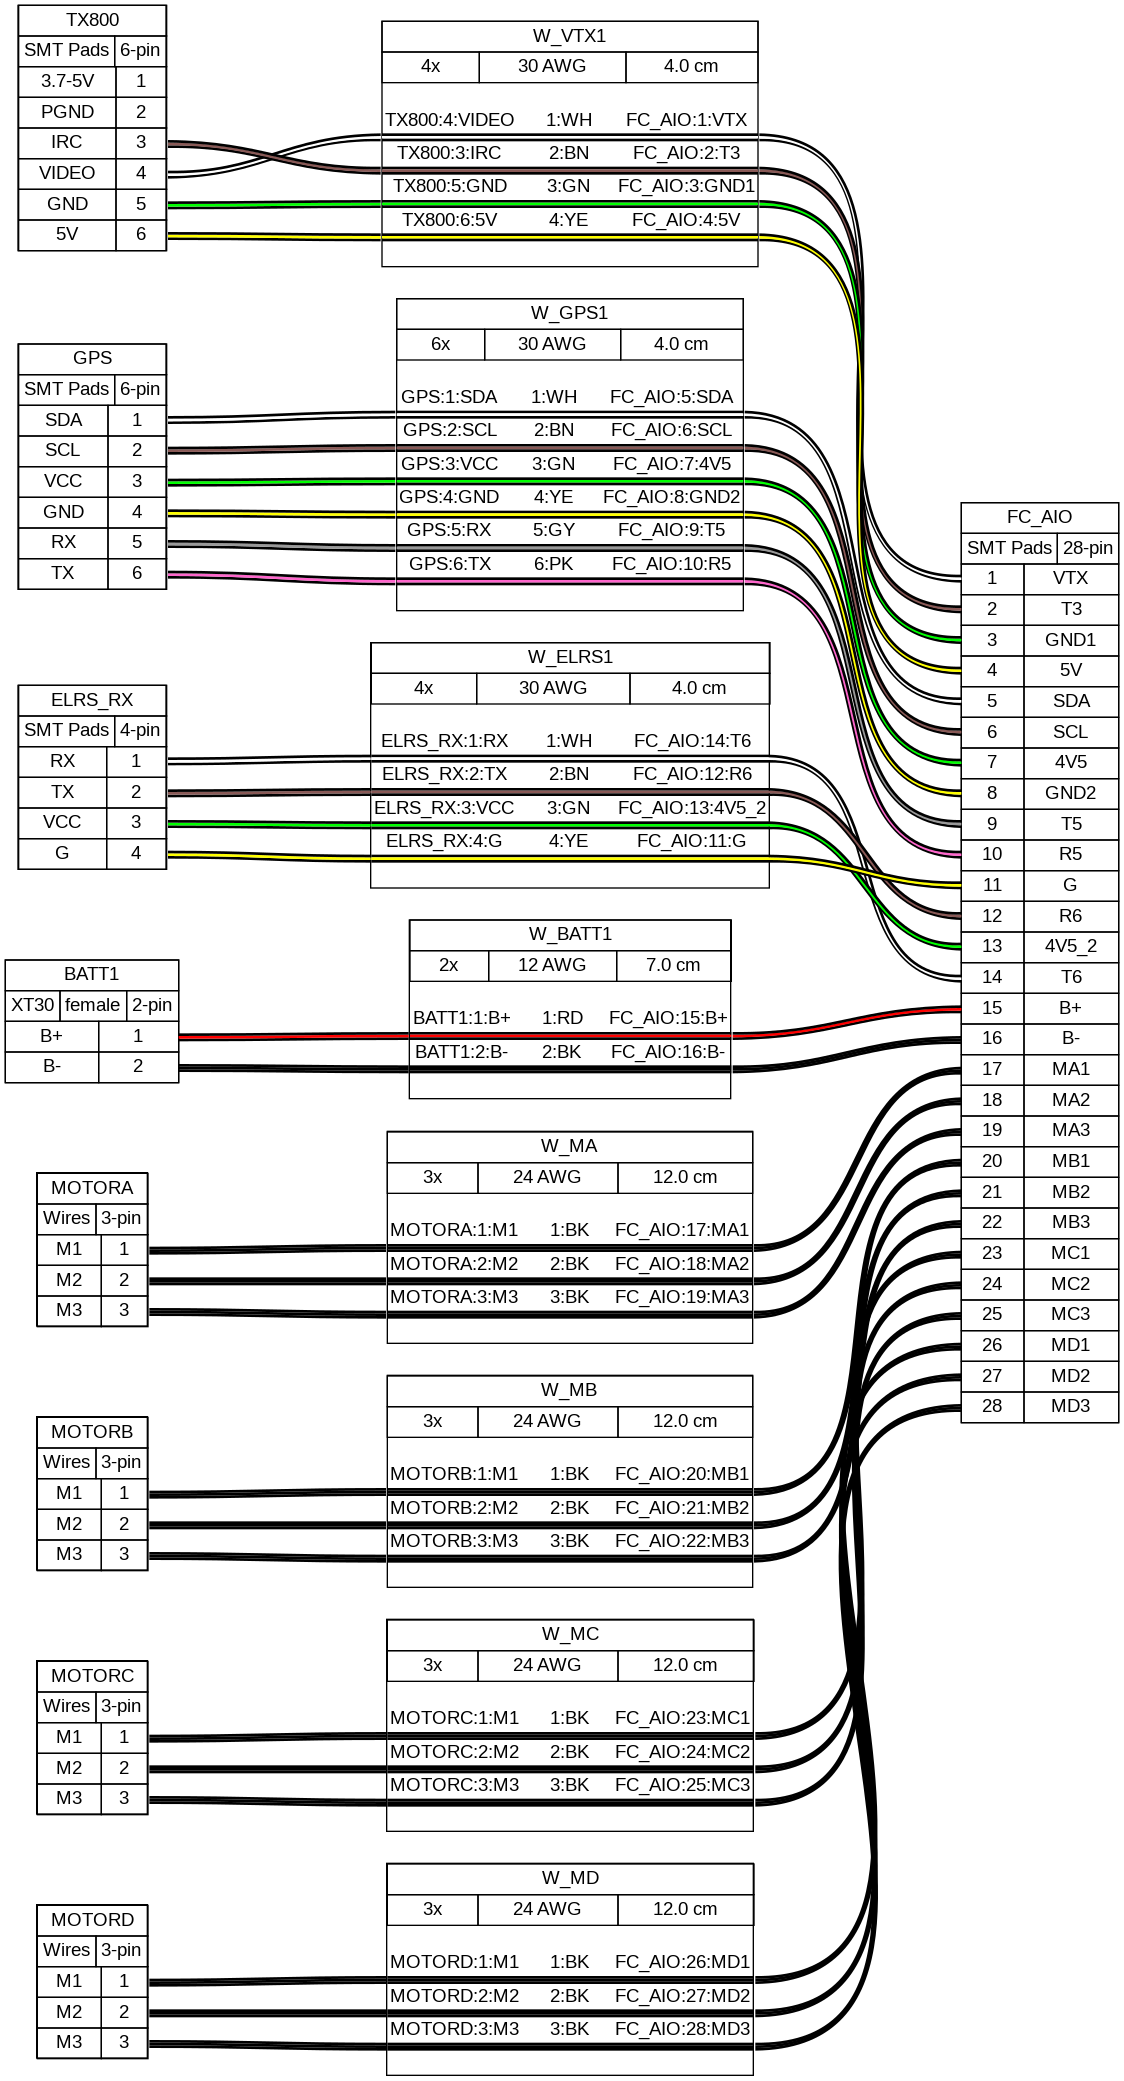
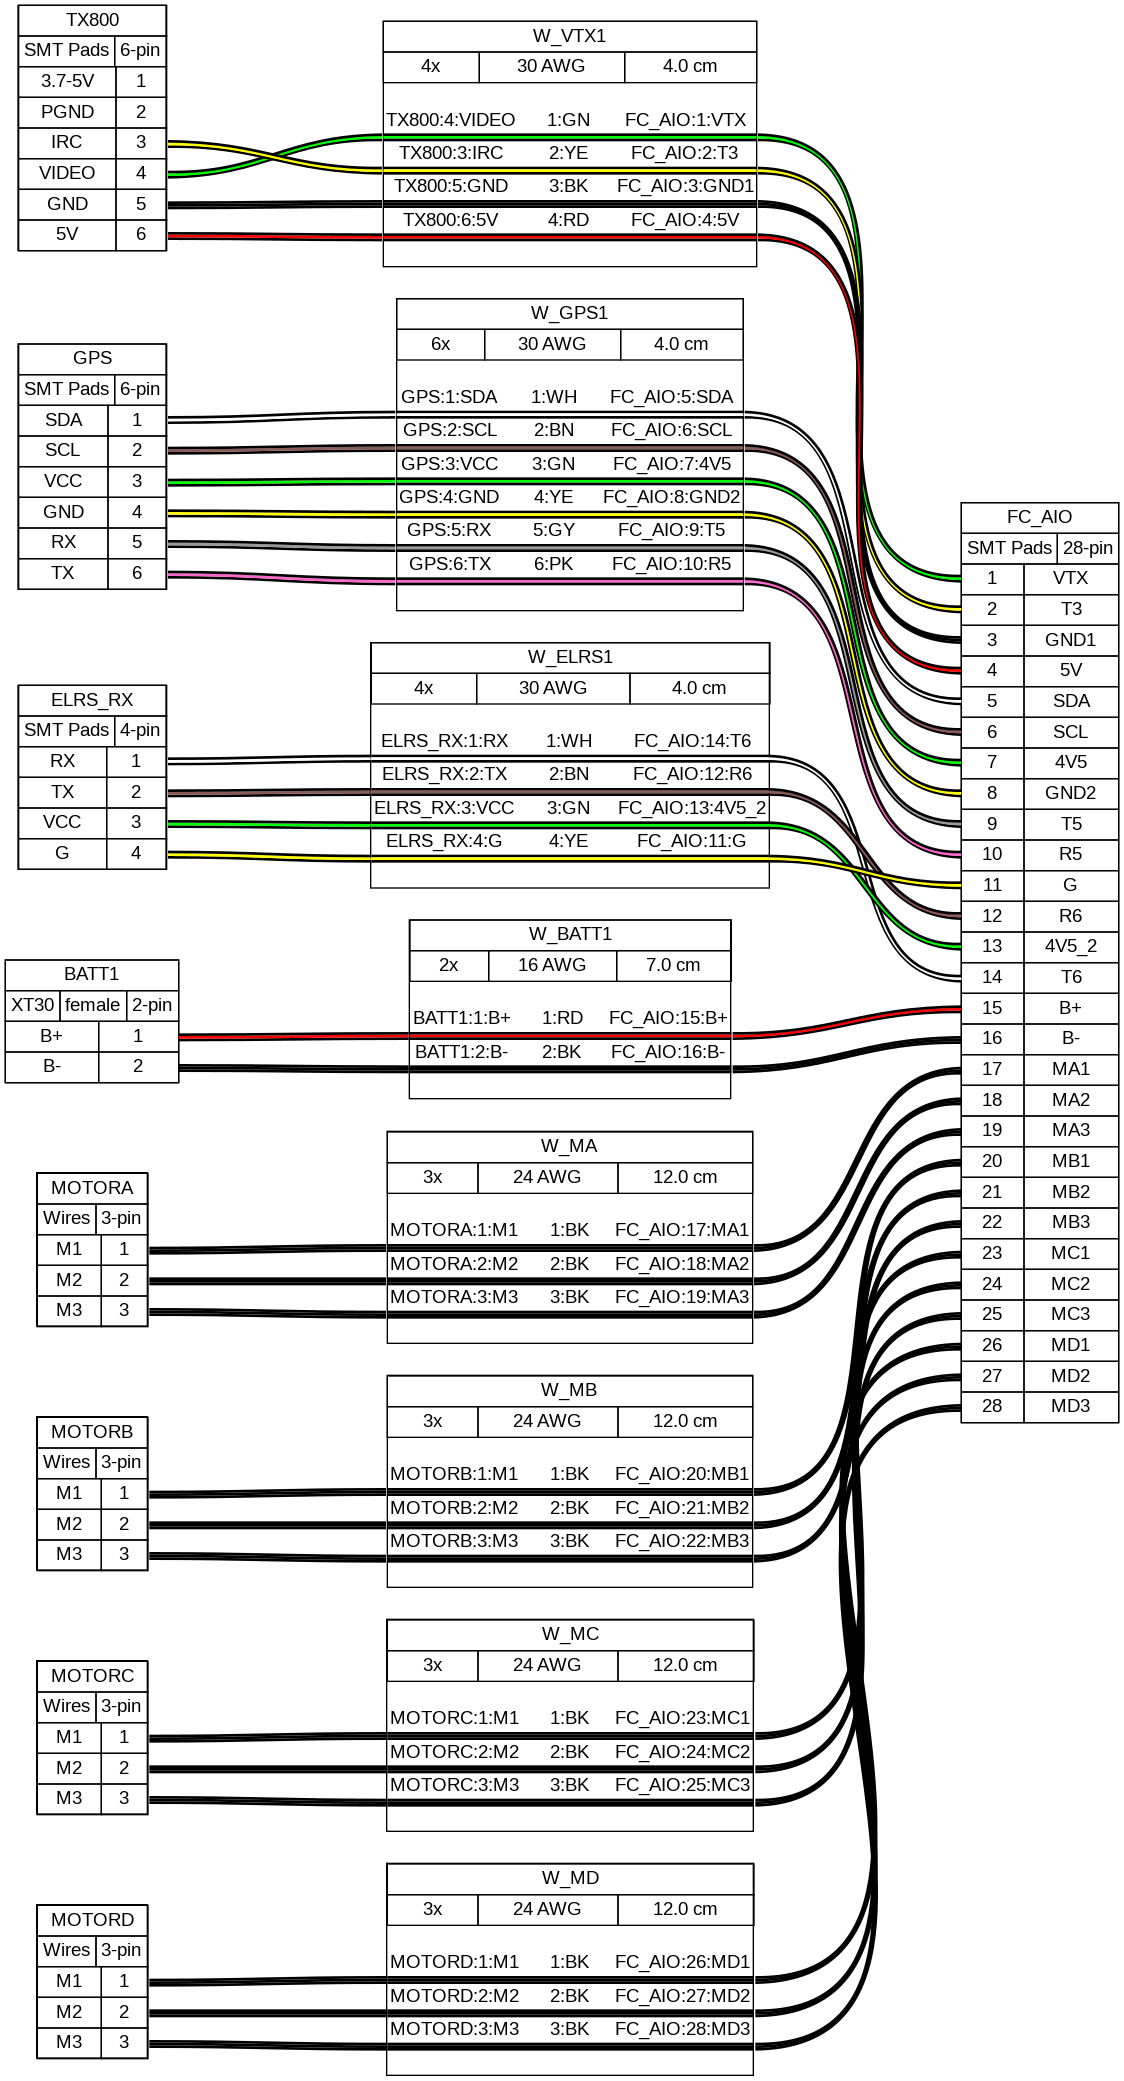
Updated wiring harness.

Changed region(s): [[0.1868, 0.0312, 0.8096, 0.3123]]

diff --git a/harness.html b/harness.html
@@ -76,69 +76,69 @@
 <!-- W_VTX1 -->
 <g id="node10" class="node">
 <title>W_VTX1</title>
-<polygon fill="#ffffff" stroke="black" points="564.5,-1540.5 282.5,-1540.5 282.5,-1356.5 564.5,-1356.5 564.5,-1540.5"/>
-<polygon fill="none" stroke="black" points="282.5,-1517.5 282.5,-1540.5 564.5,-1540.5 564.5,-1517.5 282.5,-1517.5"/>
+<polygon fill="#ffffff" stroke="black" points="563.5,-1540.5 283.5,-1540.5 283.5,-1356.5 563.5,-1356.5 563.5,-1540.5"/>
+<polygon fill="none" stroke="black" points="283.5,-1517.5 283.5,-1540.5 563.5,-1540.5 563.5,-1517.5 283.5,-1517.5"/>
 <text text-anchor="start" x="396" y="-1525.3" font-family="arial" font-size="14.00">W_VTX1</text>
-<polygon fill="none" stroke="black" points="282.5,-1494.5 282.5,-1517.5 355.5,-1517.5 355.5,-1494.5 282.5,-1494.5"/>
-<text text-anchor="start" x="311.5" y="-1502.3" font-family="arial" font-size="14.00">4x</text>
-<polygon fill="none" stroke="black" points="355.5,-1494.5 355.5,-1517.5 465.5,-1517.5 465.5,-1494.5 355.5,-1494.5"/>
-<text text-anchor="start" x="384.5" y="-1502.3" font-family="arial" font-size="14.00">30 AWG</text>
-<polygon fill="none" stroke="black" points="465.5,-1494.5 465.5,-1517.5 564.5,-1517.5 564.5,-1494.5 465.5,-1494.5"/>
-<text text-anchor="start" x="494" y="-1502.3" font-family="arial" font-size="14.00">4.0 cm</text>
-<text text-anchor="start" x="331.5" y="-1481.3" font-family="arial" font-size="14.00"> </text>
-<text text-anchor="start" x="284.5" y="-1462.3" font-family="arial" font-size="14.00">TX800:4:VIDEO</text>
-<text text-anchor="start" x="386.5" y="-1462.3" font-family="arial" font-size="14.00"> &#160;&#160;&#160;&#160;1:WH &#160;&#160;&#160;</text>
-<text text-anchor="start" x="465.5" y="-1462.3" font-family="arial" font-size="14.00">FC_AIO:1:VTX</text>
-<polygon fill="#000000" stroke="transparent" points="282.5,-1454.5 282.5,-1456.5 564.5,-1456.5 564.5,-1454.5 282.5,-1454.5"/>
-<polygon fill="#ffffff" stroke="transparent" points="282.5,-1452.5 282.5,-1454.5 564.5,-1454.5 564.5,-1452.5 282.5,-1452.5"/>
-<polygon fill="#000000" stroke="transparent" points="282.5,-1450.5 282.5,-1452.5 564.5,-1452.5 564.5,-1450.5 282.5,-1450.5"/>
-<text text-anchor="start" x="294" y="-1437.3" font-family="arial" font-size="14.00">TX800:3:IRC</text>
-<text text-anchor="start" x="389" y="-1437.3" font-family="arial" font-size="14.00"> &#160;&#160;&#160;&#160;2:BN &#160;&#160;&#160;</text>
-<text text-anchor="start" x="470.5" y="-1437.3" font-family="arial" font-size="14.00">FC_AIO:2:T3</text>
-<polygon fill="#000000" stroke="transparent" points="282.5,-1429.5 282.5,-1431.5 564.5,-1431.5 564.5,-1429.5 282.5,-1429.5"/>
-<polygon fill="#895956" stroke="transparent" points="282.5,-1427.5 282.5,-1429.5 564.5,-1429.5 564.5,-1427.5 282.5,-1427.5"/>
-<polygon fill="#000000" stroke="transparent" points="282.5,-1425.5 282.5,-1427.5 564.5,-1427.5 564.5,-1425.5 282.5,-1425.5"/>
-<text text-anchor="start" x="290.5" y="-1412.3" font-family="arial" font-size="14.00">TX800:5:GND</text>
-<text text-anchor="start" x="387.5" y="-1412.3" font-family="arial" font-size="14.00"> &#160;&#160;&#160;&#160;3:GN &#160;&#160;&#160;</text>
-<text text-anchor="start" x="459.5" y="-1412.3" font-family="arial" font-size="14.00">FC_AIO:3:GND1</text>
-<polygon fill="#000000" stroke="transparent" points="282.5,-1404.5 282.5,-1406.5 564.5,-1406.5 564.5,-1404.5 282.5,-1404.5"/>
-<polygon fill="#00ff00" stroke="transparent" points="282.5,-1402.5 282.5,-1404.5 564.5,-1404.5 564.5,-1402.5 282.5,-1402.5"/>
-<polygon fill="#000000" stroke="transparent" points="282.5,-1400.5 282.5,-1402.5 564.5,-1402.5 564.5,-1400.5 282.5,-1400.5"/>
-<text text-anchor="start" x="297.5" y="-1387.3" font-family="arial" font-size="14.00">TX800:6:5V</text>
-<text text-anchor="start" x="389" y="-1387.3" font-family="arial" font-size="14.00"> &#160;&#160;&#160;&#160;4:YE &#160;&#160;&#160;</text>
-<text text-anchor="start" x="470" y="-1387.3" font-family="arial" font-size="14.00">FC_AIO:4:5V</text>
-<polygon fill="#000000" stroke="transparent" points="282.5,-1379.5 282.5,-1381.5 564.5,-1381.5 564.5,-1379.5 282.5,-1379.5"/>
-<polygon fill="#ffff00" stroke="transparent" points="282.5,-1377.5 282.5,-1379.5 564.5,-1379.5 564.5,-1377.5 282.5,-1377.5"/>
-<polygon fill="#000000" stroke="transparent" points="282.5,-1375.5 282.5,-1377.5 564.5,-1377.5 564.5,-1375.5 282.5,-1375.5"/>
-<text text-anchor="start" x="331.5" y="-1362.3" font-family="arial" font-size="14.00"> </text>
+<polygon fill="none" stroke="black" points="283.5,-1494.5 283.5,-1517.5 355.5,-1517.5 355.5,-1494.5 283.5,-1494.5"/>
+<text text-anchor="start" x="312" y="-1502.3" font-family="arial" font-size="14.00">4x</text>
+<polygon fill="none" stroke="black" points="355.5,-1494.5 355.5,-1517.5 464.5,-1517.5 464.5,-1494.5 355.5,-1494.5"/>
+<text text-anchor="start" x="384" y="-1502.3" font-family="arial" font-size="14.00">30 AWG</text>
+<polygon fill="none" stroke="black" points="464.5,-1494.5 464.5,-1517.5 563.5,-1517.5 563.5,-1494.5 464.5,-1494.5"/>
+<text text-anchor="start" x="493" y="-1502.3" font-family="arial" font-size="14.00">4.0 cm</text>
+<text text-anchor="start" x="332.5" y="-1481.3" font-family="arial" font-size="14.00"> </text>
+<text text-anchor="start" x="285.5" y="-1462.3" font-family="arial" font-size="14.00">TX800:4:VIDEO</text>
+<text text-anchor="start" x="387.5" y="-1462.3" font-family="arial" font-size="14.00"> &#160;&#160;&#160;&#160;1:GN &#160;&#160;&#160;</text>
+<text text-anchor="start" x="464.5" y="-1462.3" font-family="arial" font-size="14.00">FC_AIO:1:VTX</text>
+<polygon fill="#000000" stroke="transparent" points="283.5,-1454.5 283.5,-1456.5 563.5,-1456.5 563.5,-1454.5 283.5,-1454.5"/>
+<polygon fill="#00ff00" stroke="transparent" points="283.5,-1452.5 283.5,-1454.5 563.5,-1454.5 563.5,-1452.5 283.5,-1452.5"/>
+<polygon fill="#000000" stroke="transparent" points="283.5,-1450.5 283.5,-1452.5 563.5,-1452.5 563.5,-1450.5 283.5,-1450.5"/>
+<text text-anchor="start" x="295" y="-1437.3" font-family="arial" font-size="14.00">TX800:3:IRC</text>
+<text text-anchor="start" x="389" y="-1437.3" font-family="arial" font-size="14.00"> &#160;&#160;&#160;&#160;2:YE &#160;&#160;&#160;</text>
+<text text-anchor="start" x="469.5" y="-1437.3" font-family="arial" font-size="14.00">FC_AIO:2:T3</text>
+<polygon fill="#000000" stroke="transparent" points="283.5,-1429.5 283.5,-1431.5 563.5,-1431.5 563.5,-1429.5 283.5,-1429.5"/>
+<polygon fill="#ffff00" stroke="transparent" points="283.5,-1427.5 283.5,-1429.5 563.5,-1429.5 563.5,-1427.5 283.5,-1427.5"/>
+<polygon fill="#000000" stroke="transparent" points="283.5,-1425.5 283.5,-1427.5 563.5,-1427.5 563.5,-1425.5 283.5,-1425.5"/>
+<text text-anchor="start" x="291.5" y="-1412.3" font-family="arial" font-size="14.00">TX800:5:GND</text>
+<text text-anchor="start" x="389" y="-1412.3" font-family="arial" font-size="14.00"> &#160;&#160;&#160;&#160;3:BK &#160;&#160;&#160;</text>
+<text text-anchor="start" x="458.5" y="-1412.3" font-family="arial" font-size="14.00">FC_AIO:3:GND1</text>
+<polygon fill="#000000" stroke="transparent" points="283.5,-1404.5 283.5,-1406.5 563.5,-1406.5 563.5,-1404.5 283.5,-1404.5"/>
+<polygon fill="#000000" stroke="transparent" points="283.5,-1402.5 283.5,-1404.5 563.5,-1404.5 563.5,-1402.5 283.5,-1402.5"/>
+<polygon fill="#000000" stroke="transparent" points="283.5,-1400.5 283.5,-1402.5 563.5,-1402.5 563.5,-1400.5 283.5,-1400.5"/>
+<text text-anchor="start" x="298.5" y="-1387.3" font-family="arial" font-size="14.00">TX800:6:5V</text>
+<text text-anchor="start" x="388.5" y="-1387.3" font-family="arial" font-size="14.00"> &#160;&#160;&#160;&#160;4:RD &#160;&#160;&#160;</text>
+<text text-anchor="start" x="469" y="-1387.3" font-family="arial" font-size="14.00">FC_AIO:4:5V</text>
+<polygon fill="#000000" stroke="transparent" points="283.5,-1379.5 283.5,-1381.5 563.5,-1381.5 563.5,-1379.5 283.5,-1379.5"/>
+<polygon fill="#ff0000" stroke="transparent" points="283.5,-1377.5 283.5,-1379.5 563.5,-1379.5 563.5,-1377.5 283.5,-1377.5"/>
+<polygon fill="#000000" stroke="transparent" points="283.5,-1375.5 283.5,-1377.5 563.5,-1377.5 563.5,-1375.5 283.5,-1375.5"/>
+<text text-anchor="start" x="332.5" y="-1362.3" font-family="arial" font-size="14.00"> </text>
 </g>
 <!-- TX800&#45;&#45;W_VTX1 -->
 <g id="edge1" class="edge">
 <title>TX800:e&#45;&#45;W_VTX1:w</title>
-<path fill="none" stroke="#000000" stroke-width="2" d="M122,-1423.5C195.72,-1424.53 211.28,-1452.53 281.5,-1451.5"/>
-<path fill="none" stroke="#ffffff" stroke-width="2" d="M122,-1425.5C193.97,-1425.5 209.53,-1453.5 281.5,-1453.5"/>
-<path fill="none" stroke="#000000" stroke-width="2" d="M122,-1427.5C192.22,-1426.47 207.78,-1454.47 281.5,-1455.5"/>
+<path fill="none" stroke="#000000" stroke-width="2" d="M122,-1423.5C196.16,-1424.52 211.83,-1452.52 282.5,-1451.5"/>
+<path fill="none" stroke="#00ff00" stroke-width="2" d="M122,-1425.5C194.41,-1425.5 210.09,-1453.5 282.5,-1453.5"/>
+<path fill="none" stroke="#000000" stroke-width="2" d="M122,-1427.5C192.67,-1426.48 208.34,-1454.48 282.5,-1455.5"/>
 </g>
 <!-- TX800&#45;&#45;W_VTX1 -->
 <g id="edge3" class="edge">
 <title>TX800:e&#45;&#45;W_VTX1:w</title>
-<path fill="none" stroke="#000000" stroke-width="2" d="M122,-1446.5C191.91,-1447.22 208.52,-1427.22 281.5,-1426.5"/>
-<path fill="none" stroke="#895956" stroke-width="2" d="M122,-1448.5C193.44,-1448.5 210.06,-1428.5 281.5,-1428.5"/>
-<path fill="none" stroke="#000000" stroke-width="2" d="M122,-1450.5C194.98,-1449.78 211.59,-1429.78 281.5,-1430.5"/>
+<path fill="none" stroke="#000000" stroke-width="2" d="M122,-1446.5C192.35,-1447.22 209.08,-1427.22 282.5,-1426.5"/>
+<path fill="none" stroke="#ffff00" stroke-width="2" d="M122,-1448.5C193.89,-1448.5 210.61,-1428.5 282.5,-1428.5"/>
+<path fill="none" stroke="#000000" stroke-width="2" d="M122,-1450.5C195.42,-1449.78 212.15,-1429.78 282.5,-1430.5"/>
 </g>
 <!-- TX800&#45;&#45;W_VTX1 -->
 <g id="edge5" class="edge">
 <title>TX800:e&#45;&#45;W_VTX1:w</title>
-<path fill="none" stroke="#000000" stroke-width="2" d="M122,-1400.5C193,-1400.5 210.72,-1401.5 281.5,-1401.5"/>
-<path fill="none" stroke="#00ff00" stroke-width="2" d="M122,-1402.5C192.89,-1402.5 210.61,-1403.5 281.5,-1403.5"/>
-<path fill="none" stroke="#000000" stroke-width="2" d="M122,-1404.5C192.78,-1404.5 210.5,-1405.5 281.5,-1405.5"/>
+<path fill="none" stroke="#000000" stroke-width="2" d="M122,-1400.5C193.45,-1400.5 211.28,-1401.5 282.5,-1401.5"/>
+<path fill="none" stroke="#000000" stroke-width="2" d="M122,-1402.5C193.33,-1402.5 211.17,-1403.5 282.5,-1403.5"/>
+<path fill="none" stroke="#000000" stroke-width="2" d="M122,-1404.5C193.22,-1404.5 211.05,-1405.5 282.5,-1405.5"/>
 </g>
 <!-- TX800&#45;&#45;W_VTX1 -->
 <g id="edge7" class="edge">
 <title>TX800:e&#45;&#45;W_VTX1:w</title>
-<path fill="none" stroke="#000000" stroke-width="2" d="M122,-1377.5C192.78,-1377.5 210.5,-1376.5 281.5,-1376.5"/>
-<path fill="none" stroke="#ffff00" stroke-width="2" d="M122,-1379.5C192.89,-1379.5 210.61,-1378.5 281.5,-1378.5"/>
-<path fill="none" stroke="#000000" stroke-width="2" d="M122,-1381.5C193,-1381.5 210.72,-1380.5 281.5,-1380.5"/>
+<path fill="none" stroke="#000000" stroke-width="2" d="M122,-1377.5C193.22,-1377.5 211.05,-1376.5 282.5,-1376.5"/>
+<path fill="none" stroke="#ff0000" stroke-width="2" d="M122,-1379.5C193.33,-1379.5 211.17,-1378.5 282.5,-1378.5"/>
+<path fill="none" stroke="#000000" stroke-width="2" d="M122,-1381.5C193.45,-1381.5 211.28,-1380.5 282.5,-1380.5"/>
 </g>
 <!-- FC_AIO -->
 <g id="node2" class="node">
@@ -515,7 +515,7 @@
 <polygon fill="none" stroke="black" points="303.5,-820.5 303.5,-843.5 362.5,-843.5 362.5,-820.5 303.5,-820.5"/>
 <text text-anchor="start" x="325.5" y="-828.3" font-family="arial" font-size="14.00">2x</text>
 <polygon fill="none" stroke="black" points="362.5,-820.5 362.5,-843.5 458.5,-843.5 458.5,-820.5 362.5,-820.5"/>
-<text text-anchor="start" x="384.5" y="-828.3" font-family="arial" font-size="14.00">12 AWG</text>
+<text text-anchor="start" x="384.5" y="-828.3" font-family="arial" font-size="14.00">16 AWG</text>
 <polygon fill="none" stroke="black" points="458.5,-820.5 458.5,-843.5 544.5,-843.5 544.5,-820.5 458.5,-820.5"/>
 <text text-anchor="start" x="480.5" y="-828.3" font-family="arial" font-size="14.00">7.0 cm</text>
 <text text-anchor="start" x="340.5" y="-807.3" font-family="arial" font-size="14.00"> </text>
@@ -858,30 +858,30 @@
 <!-- W_VTX1&#45;&#45;FC_AIO -->
 <g id="edge2" class="edge">
 <title>W_VTX1:e&#45;&#45;FC_AIO:w</title>
-<path fill="none" stroke="#000000" stroke-width="2" d="M565.5,-1451.5C725.51,-1454.42 553.44,-1123.42 717,-1120.5"/>
-<path fill="none" stroke="#ffffff" stroke-width="2" d="M565.5,-1453.5C727.29,-1453.5 555.21,-1122.5 717,-1122.5"/>
-<path fill="none" stroke="#000000" stroke-width="2" d="M565.5,-1455.5C729.06,-1452.58 556.99,-1121.58 717,-1124.5"/>
+<path fill="none" stroke="#000000" stroke-width="2" d="M564.5,-1451.5C724.7,-1454.42 553.25,-1123.42 717,-1120.5"/>
+<path fill="none" stroke="#00ff00" stroke-width="2" d="M564.5,-1453.5C726.47,-1453.5 555.03,-1122.5 717,-1122.5"/>
+<path fill="none" stroke="#000000" stroke-width="2" d="M564.5,-1455.5C728.25,-1452.58 556.8,-1121.58 717,-1124.5"/>
 </g>
 <!-- W_VTX1&#45;&#45;FC_AIO -->
 <g id="edge4" class="edge">
 <title>W_VTX1:e&#45;&#45;FC_AIO:w</title>
-<path fill="none" stroke="#000000" stroke-width="2" d="M565.5,-1426.5C724.7,-1429.42 554.24,-1100.42 717,-1097.5"/>
-<path fill="none" stroke="#895956" stroke-width="2" d="M565.5,-1428.5C726.48,-1428.5 556.02,-1099.5 717,-1099.5"/>
-<path fill="none" stroke="#000000" stroke-width="2" d="M565.5,-1430.5C728.26,-1427.58 557.8,-1098.58 717,-1101.5"/>
+<path fill="none" stroke="#000000" stroke-width="2" d="M564.5,-1426.5C723.89,-1429.42 554.06,-1100.42 717,-1097.5"/>
+<path fill="none" stroke="#ffff00" stroke-width="2" d="M564.5,-1428.5C725.67,-1428.5 555.83,-1099.5 717,-1099.5"/>
+<path fill="none" stroke="#000000" stroke-width="2" d="M564.5,-1430.5C727.44,-1427.58 557.61,-1098.58 717,-1101.5"/>
 </g>
 <!-- W_VTX1&#45;&#45;FC_AIO -->
 <g id="edge6" class="edge">
 <title>W_VTX1:e&#45;&#45;FC_AIO:w</title>
-<path fill="none" stroke="#000000" stroke-width="2" d="M565.5,-1401.5C723.9,-1404.42 555.05,-1077.42 717,-1074.5"/>
-<path fill="none" stroke="#00ff00" stroke-width="2" d="M565.5,-1403.5C725.67,-1403.5 556.83,-1076.5 717,-1076.5"/>
-<path fill="none" stroke="#000000" stroke-width="2" d="M565.5,-1405.5C727.45,-1402.58 558.6,-1075.58 717,-1078.5"/>
+<path fill="none" stroke="#000000" stroke-width="2" d="M564.5,-1401.5C723.08,-1404.41 554.86,-1077.41 717,-1074.5"/>
+<path fill="none" stroke="#000000" stroke-width="2" d="M564.5,-1403.5C724.86,-1403.5 556.64,-1076.5 717,-1076.5"/>
+<path fill="none" stroke="#000000" stroke-width="2" d="M564.5,-1405.5C726.64,-1402.59 558.42,-1075.59 717,-1078.5"/>
 </g>
 <!-- W_VTX1&#45;&#45;FC_AIO -->
 <g id="edge8" class="edge">
 <title>W_VTX1:e&#45;&#45;FC_AIO:w</title>
-<path fill="none" stroke="#000000" stroke-width="2" d="M565.5,-1376.5C723.09,-1379.42 555.85,-1054.42 717,-1051.5"/>
-<path fill="none" stroke="#ffff00" stroke-width="2" d="M565.5,-1378.5C724.87,-1378.5 557.63,-1053.5 717,-1053.5"/>
-<path fill="none" stroke="#000000" stroke-width="2" d="M565.5,-1380.5C726.65,-1377.58 559.41,-1052.58 717,-1055.5"/>
+<path fill="none" stroke="#000000" stroke-width="2" d="M564.5,-1376.5C722.28,-1379.41 555.66,-1054.41 717,-1051.5"/>
+<path fill="none" stroke="#ff0000" stroke-width="2" d="M564.5,-1378.5C724.06,-1378.5 557.44,-1053.5 717,-1053.5"/>
+<path fill="none" stroke="#000000" stroke-width="2" d="M564.5,-1380.5C725.84,-1377.59 559.22,-1052.59 717,-1055.5"/>
 </g>
 <!-- W_GPS1&#45;&#45;FC_AIO -->
 <g id="edge10" class="edge">
@@ -1073,7 +1073,7 @@
   </tr>
   <tr>
     <td class="bom_col_id">1</td>
-    <td class="bom_col_description">Cable, 2 x 12 AWG</td>
+    <td class="bom_col_description">Cable, 2 x 16 AWG</td>
     <td class="bom_col_qty">7</td>
     <td class="bom_col_unit">cm</td>
     <td class="bom_col_designators">W_BATT1</td>
